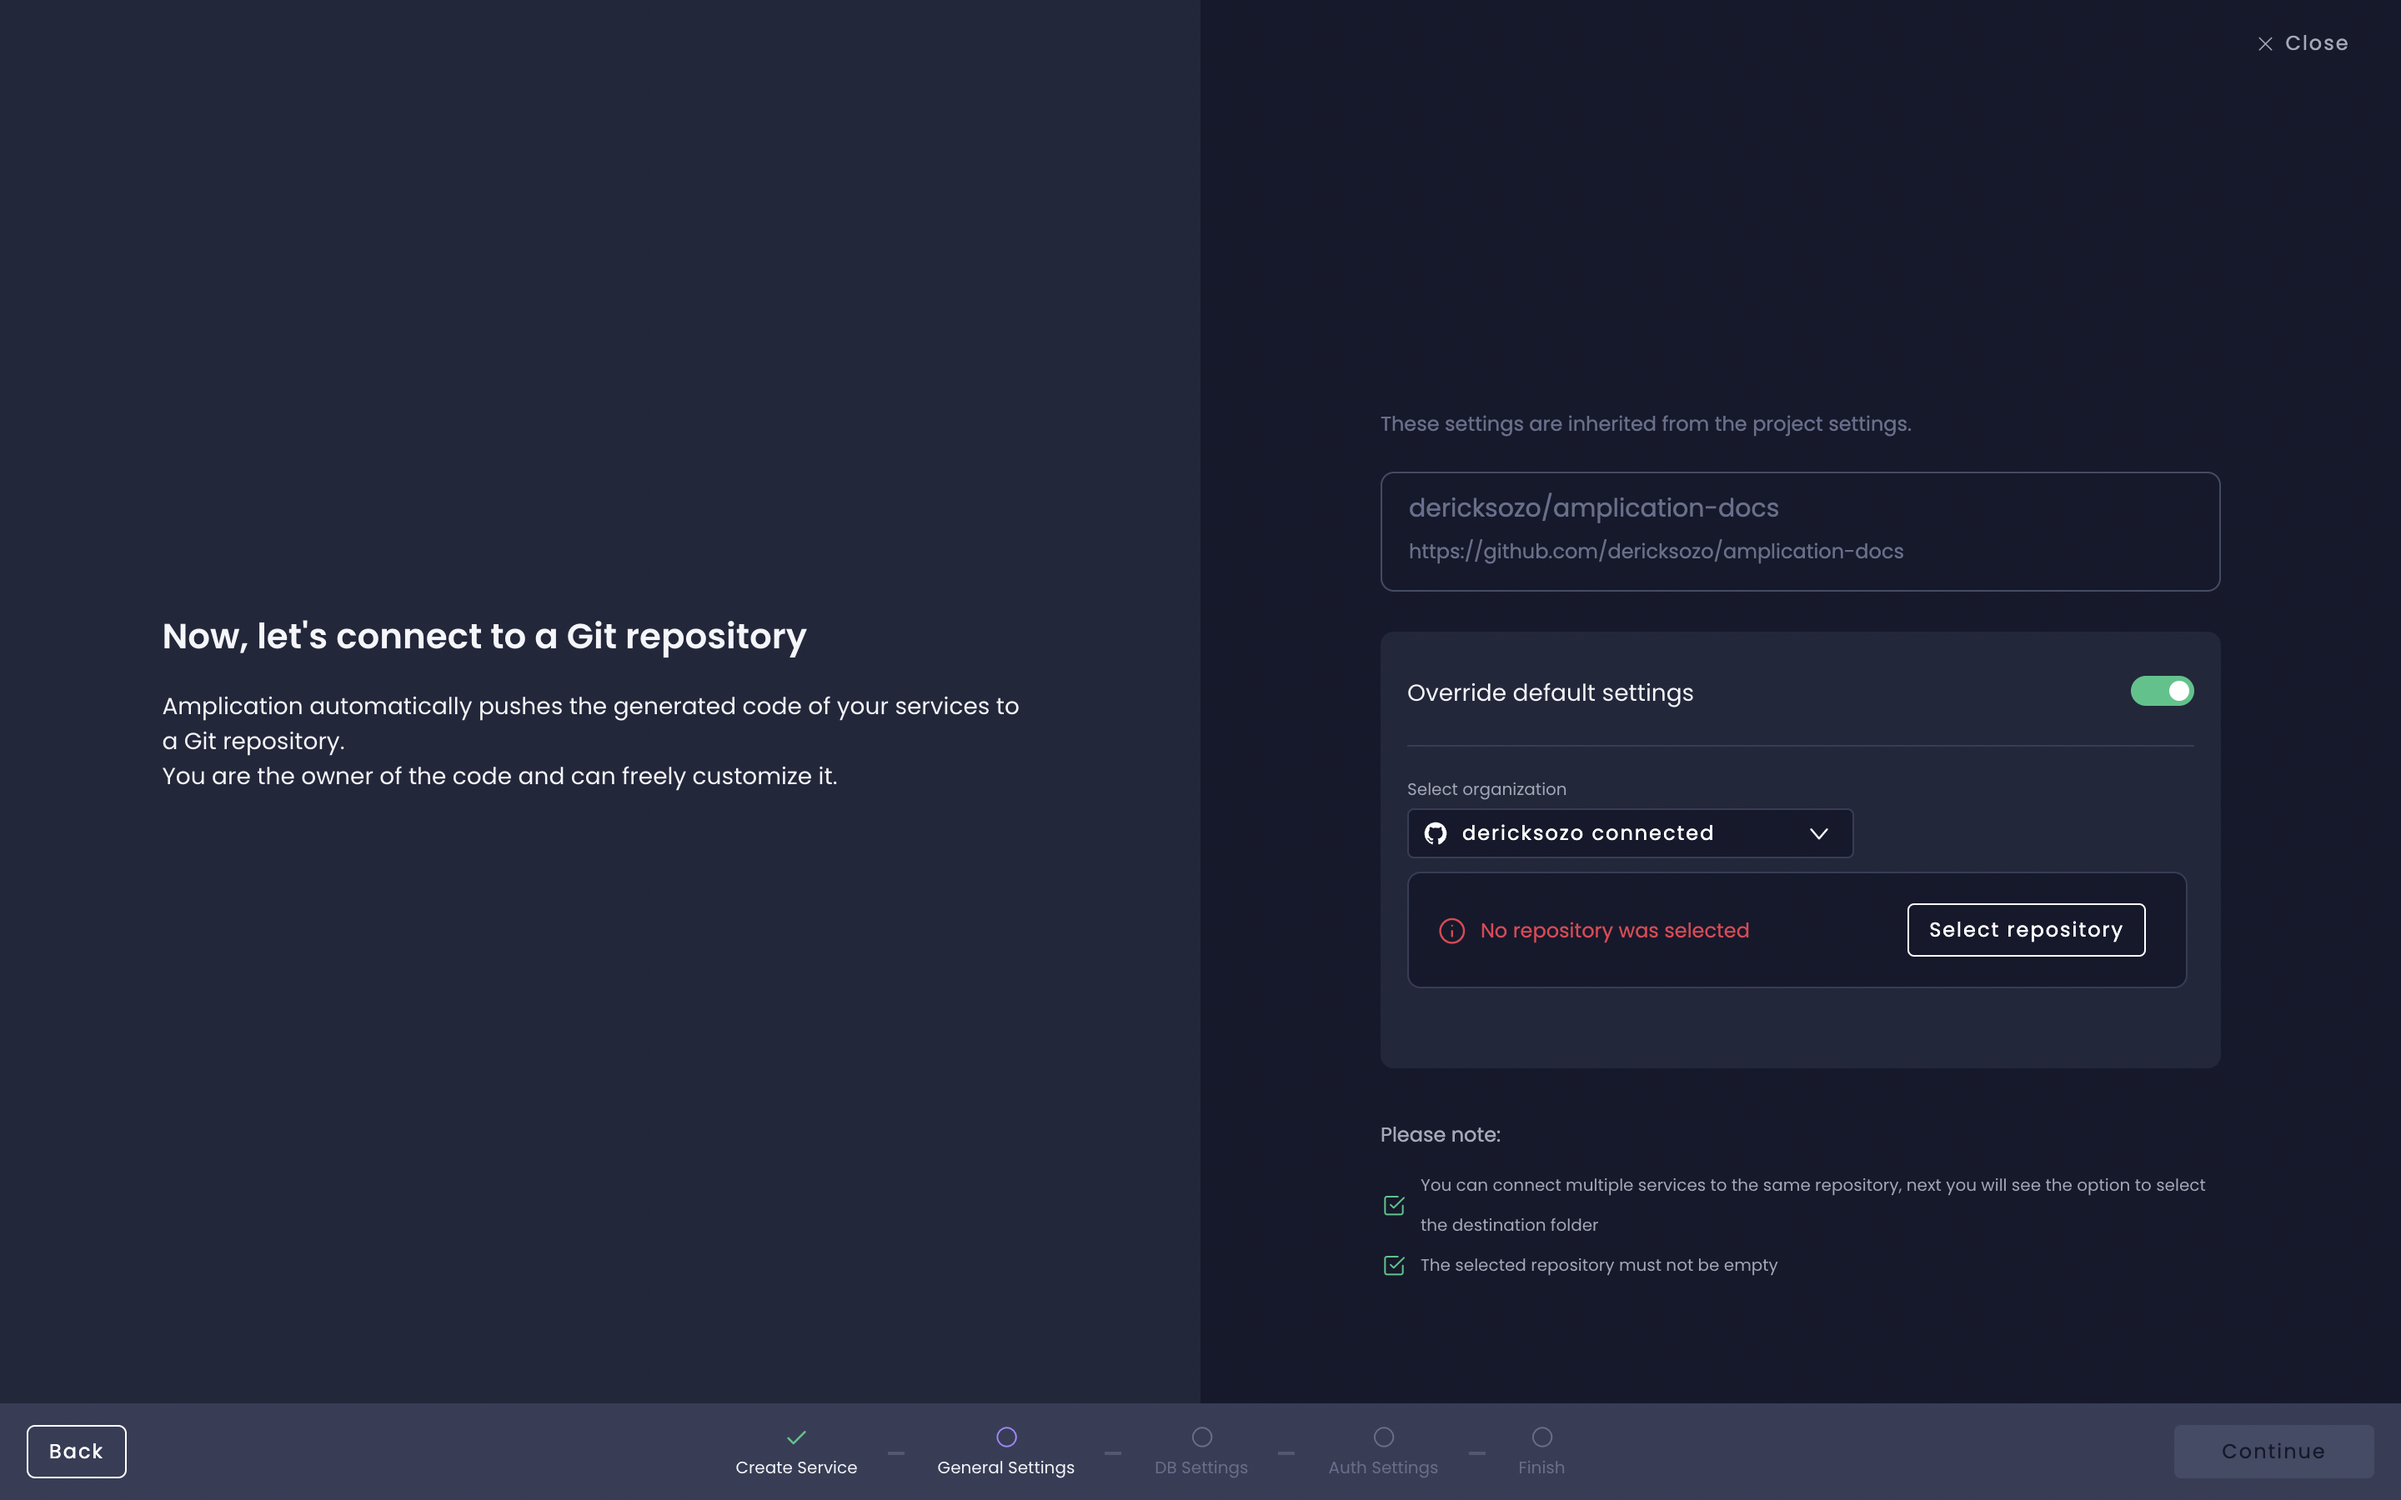
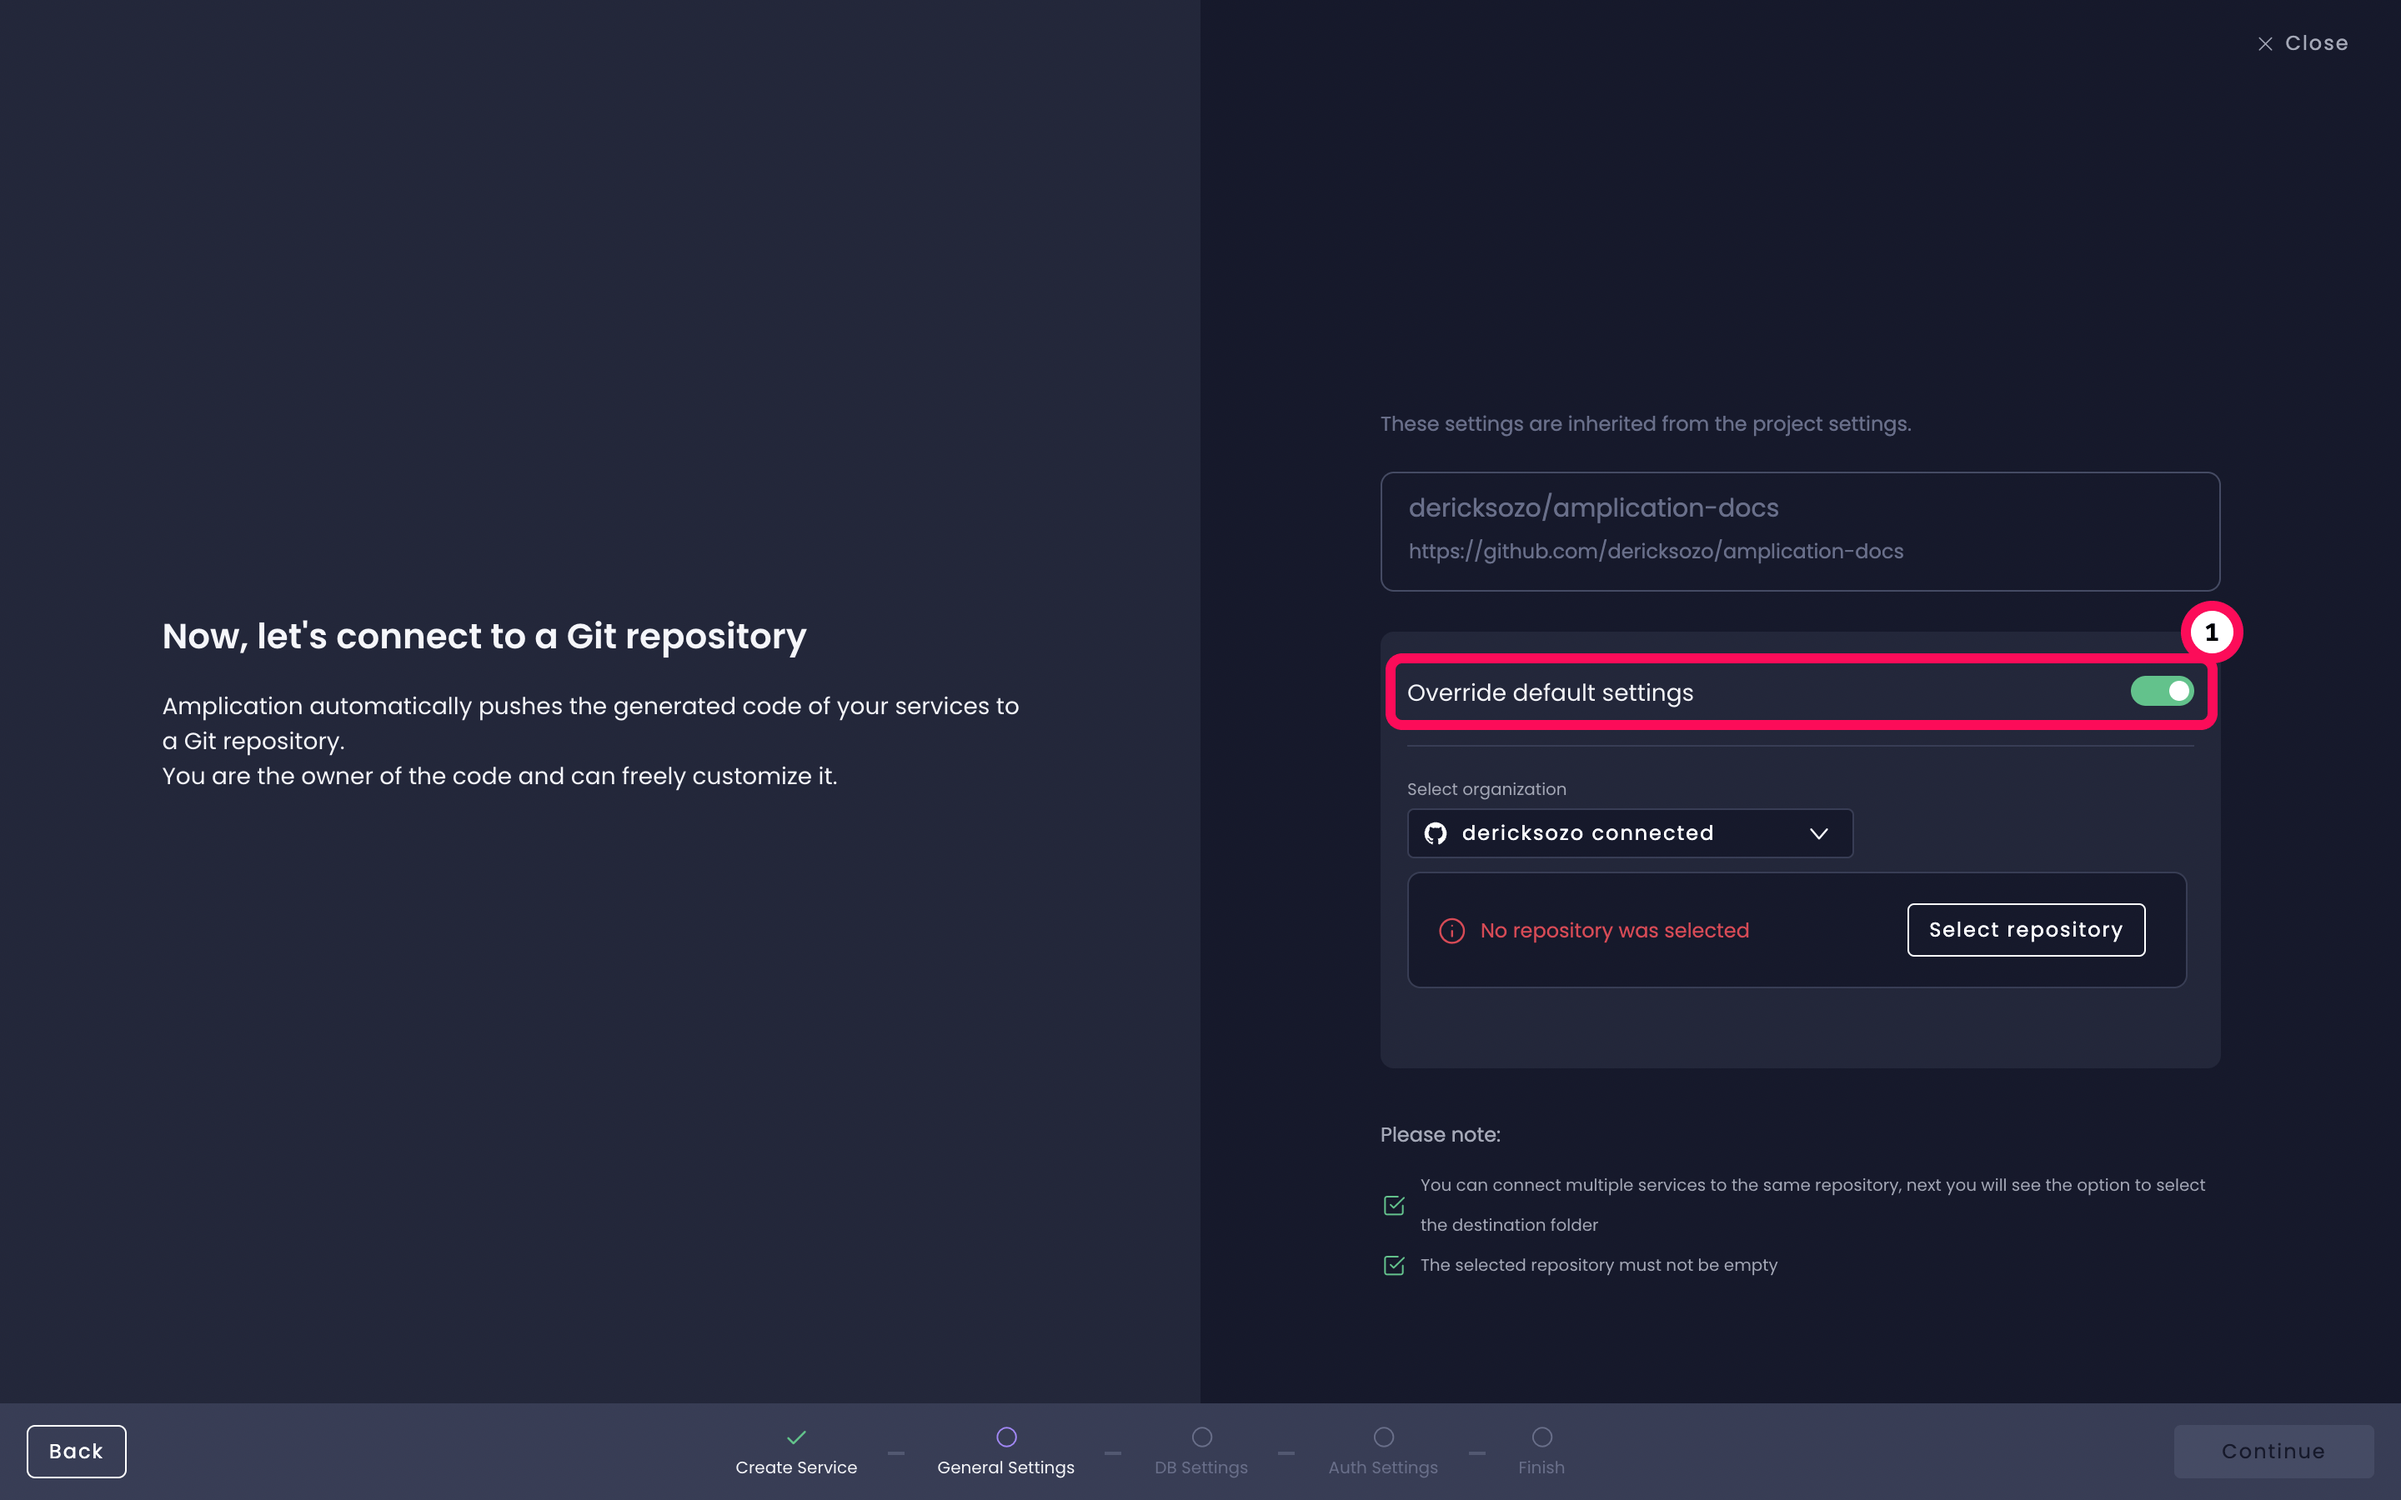
(docs): Implementing Erez's feedback. Making the screenshots more clear by adding indicating graphics.

Changed region(s): [[0.5625, 0.4044, 0.9375, 0.4978]]

diff --git a/docs/getting-started/sync-with-github.md b/docs/getting-started/sync-with-github.md
@@ -8,8 +8,9 @@ slug: /sync-with-github
 
 # Sync with GitHub
 
-Amplication can seamlessly synchronize with your favorite git provider like GitHub or [Bitbucket](/sync-with-bitbucket).
-Your application's auto-generated code gets pushed to a GitHub repository of your choosing. You get full control of your project and can easily track the code generated by Amplication.
+Amplication can seamlessly synchronize with GitHub.
+Your application's auto-generated code gets pushed to a GitHub repository of your choosing.
+You get full control of your project and can easily track the code generated by Amplication.
 
 This page provides you with everything you need to work with GitHub. You'll learn how to do the following:
 
@@ -53,7 +54,7 @@ Now that you're on the _Sync with Git Provider_ page, click on the _Select organ
 Your existing organizations from all your git providers will appear.
 Click on the `Add Organization` button.
 
-![](./assets/sync-with-git-provider/495c5ae4-edae-4a8f-8338-09eaadc27998.png)
+![](./assets/sync-with-git-provider/945389.png)
 
 Click on the _Connect_ button for GitHub.
 
@@ -86,26 +87,24 @@ You'll see a modal appear with a populated list of repositories based on your co
 
 ![](./assets/first-service/select-repository.png)
 
-:::important
-When you select a repository, make sure that it's not an empty repository. It should have at least one file in it.
-:::
-
 :::note
-Currently, only by connecting to an organization can you create a new GitHub Repository. A User can sync only with an existing repository.
+If you connect a personal GitHub account you can only sync to existing GitHub repositories.
+Only if you connect to an organization can you create a new repository via Amplication.
 :::
 
 ## Change Your Service's Repository
 
-A project can have multiple services.
-Each new service that you create in your project will have your originally selected repository set as the default.
-But, it's possible to override these settings for each individual service.
+A project can have many services.
+The GitHub repository you chose when creating the initial service for the project will be set as the default repository for the project.
+Each new service you create will inherit the repo settings from the project settings.
 
+But, it's possible to override these settings for each individual service.
 To do this when you're creating a service, turn on the `Override default settings` toggle [during the Git Provider selection step](/first-service/#step-2-connect-your-github-repository).
 
-You'll see [the repository selection modal](#select-your-repository) appear again.
-You can select a new repository based on [the configuration settings](#set-amplications-configuration-settings) you set for Amplication's GitHub App.
-
 ![](./assets/sync-with-git-provider/1bb1238f-01a7-4650-aeb2-6f5ae8ae76c7.png)
+
+[The repository selection modal](#select-your-repository) will appear again.
+You can select a new repository based on [the configuration settings](#set-amplications-configuration-settings) you set for Amplication's GitHub App.
 
 ## Change Your Service's Connected Git Provider
 
@@ -166,7 +165,8 @@ Users can merge Amplication-made changes by merging pull requests created by Amp
 
 The title of the pull request and the commit message will both come from the message you enter into the commit message box in Amplication's pending changes section.
 
-Also included is a link to your build highlighted in a codeblock. If you click on that link you'll be taken back to Amplication to see the build log for this specific commit.
+Also included is a direct link to your build.
+It will take you to the specific build log for this commit on Amplication.
 
 ## Merging your pull request
 
